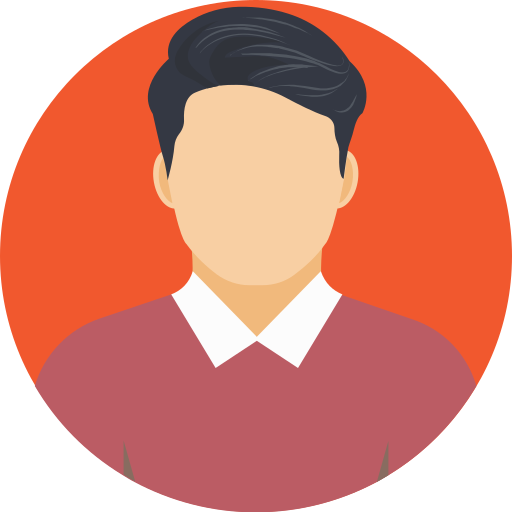
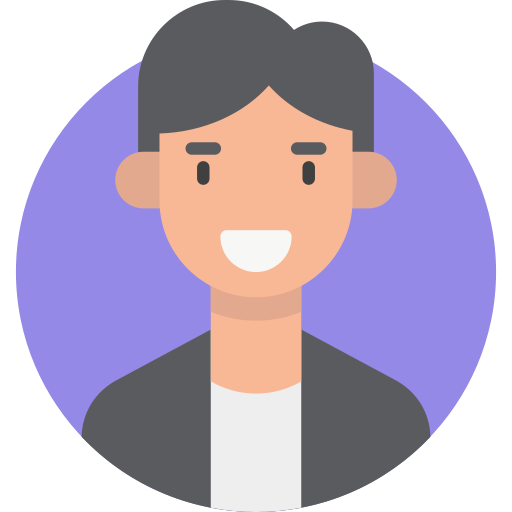
updated ui of tables and ids

diff --git a/resources/views/livewire/admin/users/list-users.blade.php b/resources/views/livewire/admin/users/list-users.blade.php
@@ -26,14 +26,14 @@
                 <!-- Nav tabs -->
 
                 <div>
-
+   <x-alerts />
 
                     <ul class="nav nav-tabs" id="myTab" role="tablist" wire:ignore>
                         <li class="nav-item" role="presentation">
                             <button class="nav-link active" id="users-tab" data-bs-toggle="tab"
                                 data-bs-target="#users-list" type="button" role="tab" aria-controls="home"
                                 aria-selected="true">
-                                Users
+                                Users List
                             </button>
                         </li>
                         <li class="nav-item" role="presentation">
@@ -53,7 +53,7 @@
                             <div class="row">
                                 <div class="col-12">
 
-                                    <x-alerts />
+
                                     <div class="shadow-md card" x-data="{
                                         showForm: false,
                                         resetForm() {
@@ -63,16 +63,14 @@
                                         showUploadForm: false,
 
                                     }" @edit.window="showForm=true;">
-                                        <div class="card-header card-title fw-bold border-bottom-0 ">
-                                            Users List
-                                        </div>
+
 
 
                                         <div
-                                            class="card-header d-flex justify-content-between align-items-center @if (auth()->user()->hasAnyRole('monitor')) pe-none opacity-50 @endif">
+                                            class="card-header d-flex justify-content-end align-items-center @if (auth()->user()->hasAnyRole('monitor')) pe-none opacity-50 @endif">
 
                                             <div>
-                                                <button class="px-3 btn"
+                                                <button class="px-3 btn btn-sm"
                                                     :class="{ 'btn-secondary': showForm, 'btn-warning': !showForm }"
                                                     :disabled="showUploadForm"
                                                     @click="showForm= !showForm; resetForm()">
@@ -80,7 +78,7 @@
                                                         x-show="!showForm">Add New User <i
                                                             class="bx bx-plus"></i></span></span>
                                                 </button>
-                                                <button class="px-3 btn"
+                                                <button class="px-3 btn btn-sm"
                                                     :class="{ 'btn-secondary': showUploadForm, 'btn-warning': !showUploadForm }"
                                                     :disabled="showForm" @click="showUploadForm= !showUploadForm;">
                                                     <span x-show="showUploadForm">Cancel <i
@@ -268,7 +266,7 @@
                                         </div>
 
                                         <div class="card-header" x-show="showUploadForm" x-data="uploadUsers">
-                                            <x-alerts />
+
                                             <form id="uploadForm" @submit.prevent="uploadData()">
                                                 <div class="mb-3">
                                                     <label for="fileInput" class="form-label">Upload Excel
@@ -293,7 +291,7 @@
                                                             :disabled="uploading" class="btn btn-warning">Upload
                                                             data</button>
                                                         <button type="button" class="btn btn-secondary"
-                                                            @click="showUploadForm = false; resetForm();">Close</button>
+                                                            wire:click="showUploadForm = false; resetForm();">Close</button>
 
                                                     </div>
                                                 </div>

diff --git a/resources/views/livewire/dashboard-charts.blade.php b/resources/views/livewire/dashboard-charts.blade.php
@@ -180,8 +180,10 @@
                                     </div>
                                 </div>
 
-                                <div class="p-0 overflow-scroll card-body" style="max-height: 400px">
-                                    <div class="table-responsive">
+                                <div class=" card-body" style="max-height: 400px">
+                                    <!-- Some borders are removed -->
+
+                                    <div class="overflow-hidden border table-responsive rounded-3">
                                         <table class="table align-middle table-striped table-hover ">
                                             <thead class="table-secondary" >
 
@@ -199,12 +201,13 @@
                                                         <td scope="row" class="py-4">
                                                             <div class="d-flex align-items-center">
                                                                 <img src="{{ $user->image == null ? asset('assets/images/users/usr.png') : asset('storage/profiles/' . $user->image) }}"
-                                                                    class="avatar-sm rounded-circle " alt="...">
+                                                                    class="avatar-sm rounded-circle object-fit-cover " alt="..."
+                                                                 >
                                                                 <span class="ms-2">{{ $user->name }}</span>
                                                             </div>
 
                                                         </td>
-                                                        <td>{{ $user->email }}</td>
+                                                        <td> <a href="mailto:{{ $user->email }}" style="text-decoration: underline !important;" class="text-dark">{{ $user->email }}</a></td>
                                                         <td>{{ $user->organisation->name }}</td>
 
                                                     </tr>
@@ -240,8 +243,8 @@
                                     </div>
 
                                 </div>
-                                <div class="p-0 overflow-scroll card-body" style="max-height: 400px">
-                                    <div class="table-responsive">
+                                <div class="card-body" style="max-height: 400px">
+                                    <div class="overflow-hidden border table-responsive rounded-3">
                                         <table class="table align-middle table-striped table-hover ">
                                             <thead class="table-secondary">
                                                 <tr>
@@ -258,10 +261,8 @@
                                                     <tr>
                                                         <td scope="row" class="py-4">
                                                             <div class="d-flex align-items-center">
-                                                                <div
-                                                                    class="text-white avatar-sm bg-warning rounded-circle me-1 d-flex align-items-center justify-content-center">
-                                                                    <i class="bx bx-folder-plus"></i>
-                                                                </div>
+                                                                <img src="{{ asset('assets/images/icons/sheet.png')  }}"
+                                                                    class="avatar-sm " alt="...">
                                                                 <span class="ms-2">
                                                                     {{ \Str::limit($item->form->name, 20, '...') }}</span>
                                                             </div>

diff --git a/app/Livewire/DashboardCharts.php b/app/Livewire/DashboardCharts.php
@@ -195,7 +195,7 @@ class DashboardCharts extends Component
     private function  loadLastSubmissions()
     {
 
-        $this->lastSubmission = Submission::query()->with(['period.indicator', 'user.organisation', 'user',  'period.reportingMonths', 'form', 'period.financialYears'])->take(5)->orderBy('created_at', 'desc')->get();
+        $this->lastSubmission = Submission::query()->with(['period.indicator', 'user.organisation', 'user',  'period.reportingMonths', 'form', 'period.financialYears'])->take(4)->orderBy('created_at', 'desc')->get();
     }
 
     private function loadAttendanceData()
@@ -210,13 +210,13 @@ class DashboardCharts extends Component
             'indicators'
         ])
             ->whereNot('name', 'REPORT FORM')
-            ->take(5)
+            ->take(4)
             ->get();
     }
 
     private function loadUsers()
     {
-        $this->users = User::with('roles')->inRandomOrder()->take(5)->get();
+        $this->users = User::with('roles')->take(4)->orderBy('created_at', 'desc')->get();
     }
     public function render()
     {

diff --git a/app/Livewire/Admin/Users/ListUsers.php b/app/Livewire/Admin/Users/ListUsers.php
@@ -217,6 +217,7 @@ class ListUsers extends Component
         $this->password = null;
         $this->password_confirmation = null;
         $this->changePassword = true;
+        $this->file = null;
     }
 
 
